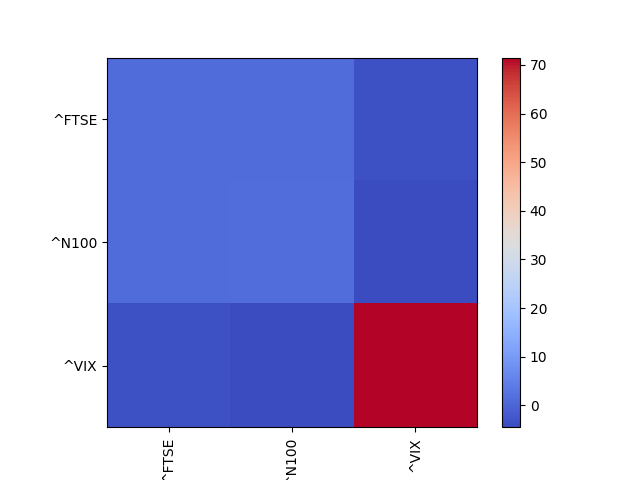
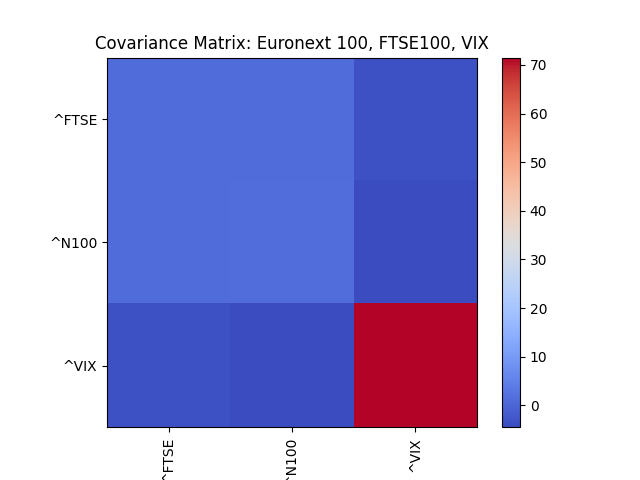
Calculate VaR & Stressed VaR

Changed region(s): [[0.1562, 0.0625, 0.7812, 0.125]]

diff --git a/_layouts/final_thesis.py b/_layouts/final_thesis.py
@@ -100,6 +100,52 @@ plt.imshow(covariance, cmap="coolwarm", interpolation="nearest")
 plt.colorbar()
 plt.xticks(range(len(covariance)), covariance.columns, rotation=90)
 plt.yticks(range(len(covariance)), covariance.columns)
-plt.savefig('images/covariance.png')
 plt.title("Covariance Matrix: Euronext 100, FTSE100, VIX")
+plt.savefig('images/covariance.png')
 plt.show()
+
+#Calculate VaR & Stressed VaR
+import numpy as np
+import scipy.stats as stats
+
+# Assuming you have historical closing price data stored in a pandas DataFrame called 'closing_price'
+
+# Calculate returns
+returns = closing_price.pct_change() * 100
+returns = returns.dropna()  # Remove any NaN values
+
+# Define confidence intervals and time frames (in years)
+confidence_intervals = [0.90, 0.95, 0.99]
+time_frames = [1, 5, 10]  # in years
+
+# Calculate VaR and Stress VaR for each combination
+var_results = {}
+stress_var_results = {}
+
+for confidence in confidence_intervals:
+    for time_frame in time_frames:
+        # Convert time frame from years to trading days
+        time_frame_days = time_frame * 252  # Assuming 252 trading days in a year
+
+        # Calculate the mean and standard deviation of returns for the given time frame
+        returns_subset = returns[-time_frame_days:]
+        returns_mean = returns_subset.mean()
+        returns_std = returns_subset.std()
+
+        # Calculate the z-score based on the confidence level
+        z = stats.norm.ppf(confidence)
+
+        # Calculate VaR
+        var = -(returns_mean + (z * returns_std))
+        var_results[(confidence, time_frame)] = var
+
+        # Calculate CVaR (Conditional Value at Risk)
+        cvar = -returns_subset[returns_subset <= var].mean()
+
+        # Calculate Stress VaR
+        k = stats.norm.ppf(1 - confidence)
+        stress_var = -(returns_mean + (z * returns_std)) + (k * cvar)
+        stress_var_results[(confidence, time_frame)] = stress_var
+
+
+
